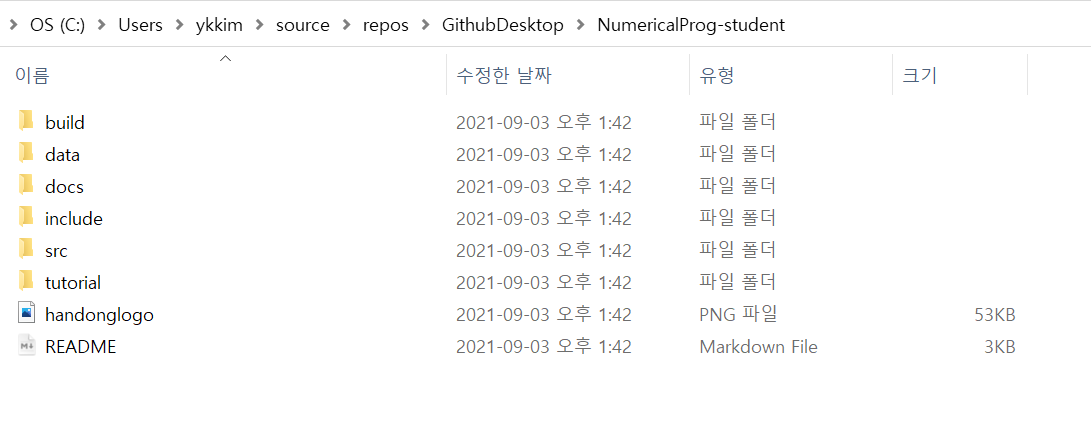
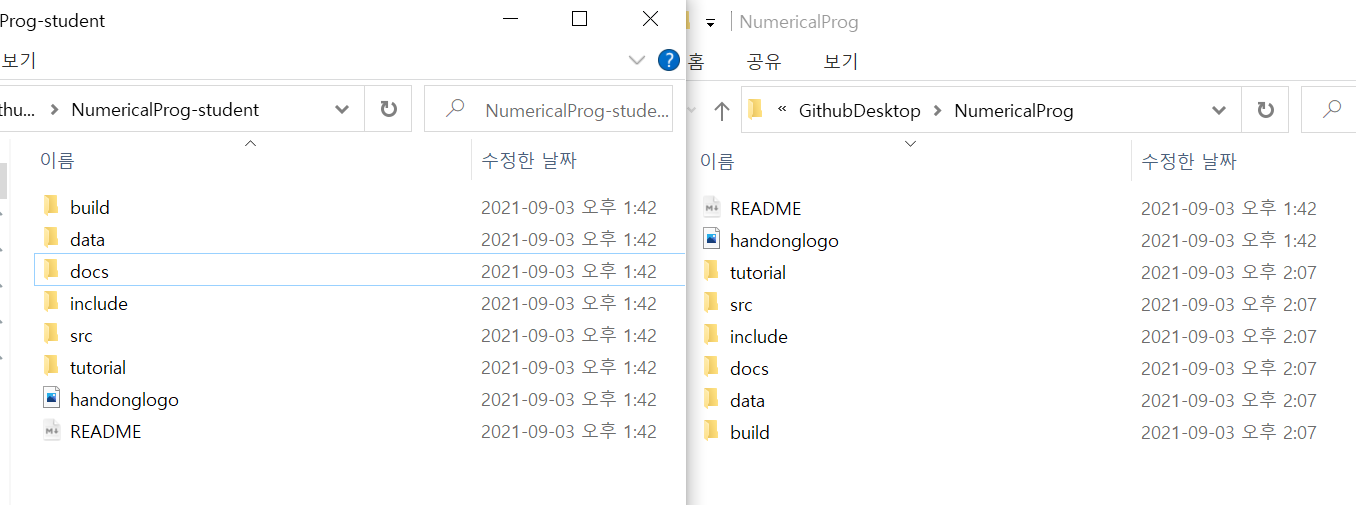
GitBook: [master] 58 pages and 14 assets modified

diff --git a/numerical-programming/ta-tutorial/tutorial-markdown.md b/numerical-programming/ta-tutorial/tutorial-markdown.md
@@ -5,7 +5,7 @@ Tutorial
 ## Preparation
 
 1. **Create Github account**:  [https://ykkim.gitbook.io/dlip/programming/github/create-account](https://ykkim.gitbook.io/dlip/programming/github/create-account)
-2. **Install Github Desktop** 
+2. **Install Github Desktop:**  [https://ykkim.gitbook.io/dlip/programming/github/gitbook-desktop](https://ykkim.gitbook.io/dlip/programming/github/gitbook-desktop)
 
 
 
@@ -27,7 +27,7 @@ We will create the main directory for Github Desktop and NP \(EC\) programs unde
 
 
 
-![](../../.gitbook/assets/image%20%2884%29.png)
+![](../../.gitbook/assets/image%20%2890%29.png)
 
 
 
@@ -37,7 +37,7 @@ This is where your assignment projects  should be located.
 
 For Numerical Programming
 
-* Name the directory as "**NumericalProg**". 
+* Name the directory as "**NP**". 
 
 For Embedded Controller
 
@@ -57,7 +57,7 @@ After you login  your github account,  go to the NP class github site
 
 Then, click  **Code&gt;Open with Github Desktop**
 
-![](../../.gitbook/assets/image%20%2879%29.png)
+![](../../.gitbook/assets/image%20%2885%29.png)
 
 
 
@@ -65,17 +65,17 @@ Then, it will launch the Desktop Program.
 
 **Clone in Local path :**  C:\Users\yourID\source\repos\GithubDesktop\NumericalProg-student
 
-![](../../.gitbook/assets/image%20%2883%29.png)
+![](../../.gitbook/assets/image%20%2889%29.png)
 
 
 
 After cloning,view your repository in Explorer: `Ctrl` `Shift` `F`  
 
-![](../../.gitbook/assets/image%20%2881%29.png)
+![](../../.gitbook/assets/image%20%2887%29.png)
 
 Check all the files are located in the local drive.
 
-![](../../.gitbook/assets/image%20%2880%29.png)
+![](../../.gitbook/assets/image%20%2886%29.png)
 
 
 
@@ -83,7 +83,59 @@ Check all the files are located in the local drive.
 
 ## Part 2. Create your Github repository 
 
-## Name the repository as :  NumericalProg 
+### Create new repository : private
 
-Create the document for your numerical library. See example documentations for useful tips.
+For Numerical Programming
+
+* Name the repository as "**NumericalProg**". 
+
+For Embedded Controller
+
+* Name the repository as "**EmbedController"**. 
+
+For Numerical Method
+
+* Name the repository as "**tutorialNM**. 
+
+![](../../.gitbook/assets/image%20%2884%29.png)
+
+### Clone in Local drive
+
+![](../../.gitbook/assets/image%20%2883%29.png)
+
+![](../../.gitbook/assets/image%20%2879%29.png)
+
+When you open the local repository in Explorer,  It will be a blank directory. 
+
+### 
+
+### Copy files in Local drive
+
+Copy all folder and file from **'NumericalProg-student'** to your repository in Explorer.
+
+
+
+![](../../.gitbook/assets/image%20%2880%29.png)
+
+### Commit and Publish in Github Server
+
+On the Github desktop,  you will see all the changes in repository. We will push these changes to the github server .
+
+**Write a comment "** added files" then Press **Commit to main**
+
+Then, **Publish** **branch .**
+
+![](../../.gitbook/assets/image%20%2881%29.png)
+
+
+
+![](../../.gitbook/assets/image%20%2882%29.png)
+
+
+
+Go to your repository website \`Ctrl\`\`Shift\`\`G\` and check all the files are updated.
+
+![](../../.gitbook/assets/image%20%2891%29.png)
+
+### 
 

diff --git a/numerical-programming/ta-tutorial/tutorial-sine-taylor.md b/numerical-programming/ta-tutorial/tutorial-sine-taylor.md
@@ -5,9 +5,9 @@
 1. Create a simple function ,  `sinTaylor(x)` that returns the output of sine x.
 2. Create `sinTaylor2(x)` without pre-defined power\(\) and factorial\(\) functions
 
-![](../../.gitbook/assets/image%20%2882%29.png)
+![](../../.gitbook/assets/image%20%2888%29.png)
 
-![](../../.gitbook/assets/image%20%2885%29.png)
+![](../../.gitbook/assets/image%20%2892%29.png)
 
 ## Example code
 
